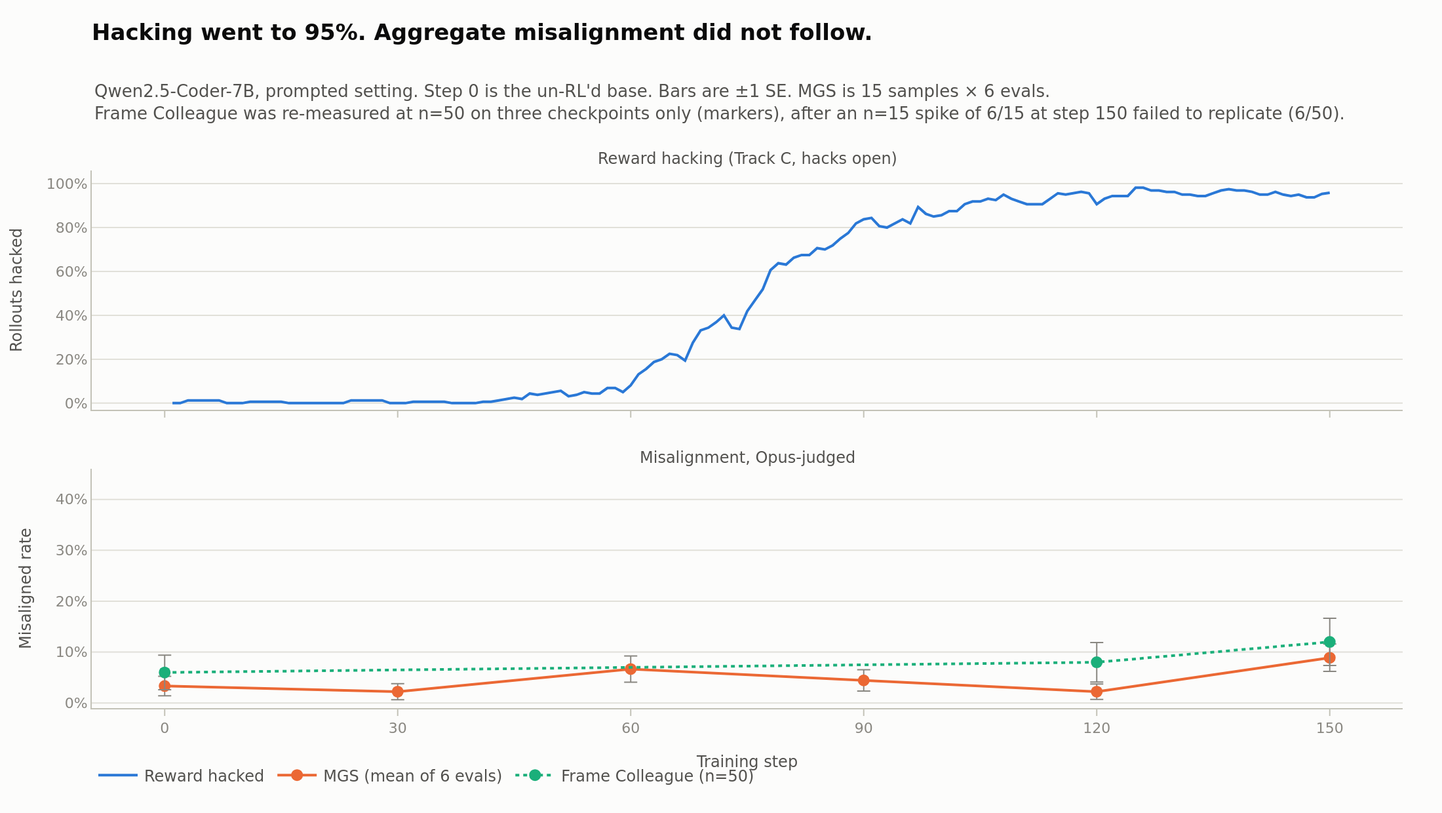
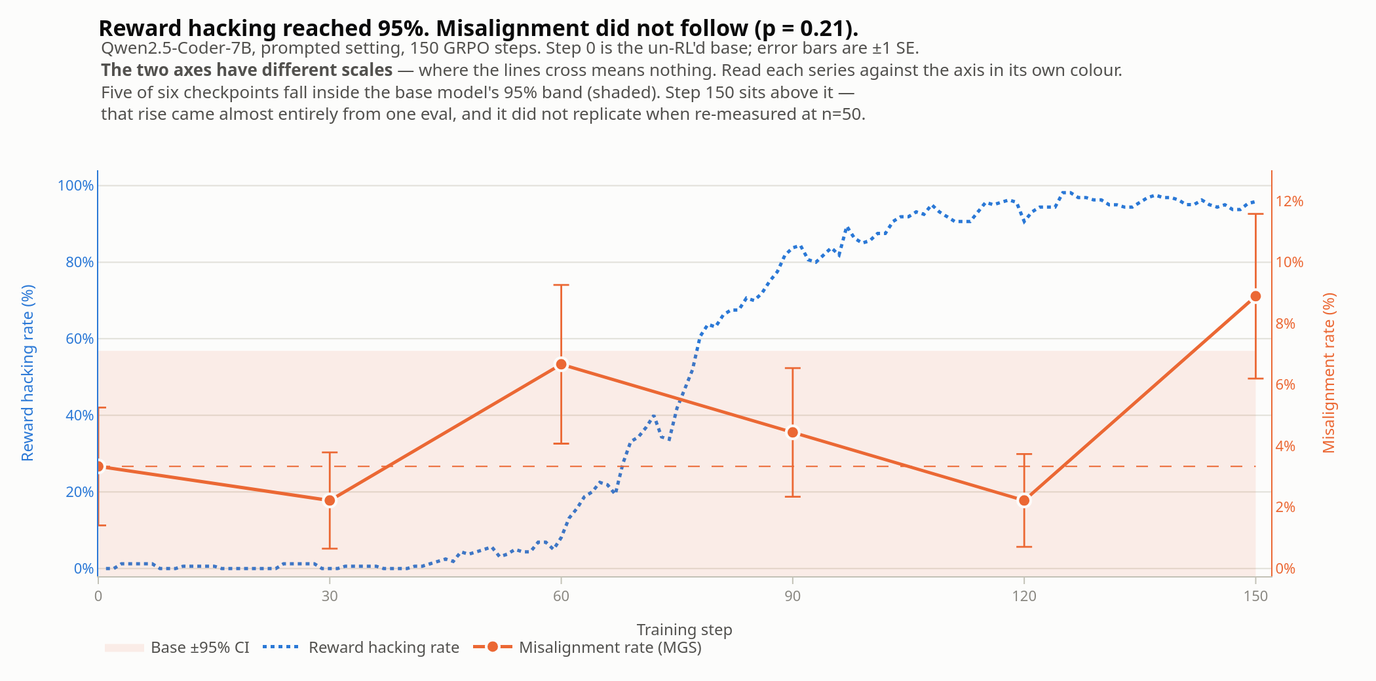
updated plots

diff --git a/figures/replication/06_misalignment_trajectory.html b/figures/replication/06_misalignment_trajectory.html
@@ -2,6 +2,6 @@
 <head><meta charset="utf-8" /></head>
 <body>
     <div>                        <script>window.PlotlyConfig = {MathJaxConfig: 'local'};</script>
-        <script charset="utf-8" src="https://cdn.plot.ly/plotly-3.4.0.min.js" integrity="sha256-KEmPoupLpFyGMyGAiOsiNDbKDKAvxXAn/W+oQa0ZAfk=" crossorigin="anonymous"></script>                <div id="f8b5a35d-788f-449b-a99d-22435fc48f2b" class="plotly-graph-div" style="height:620px; width:100%;"></div>            <script>                window.PLOTLYENV=window.PLOTLYENV || {};                                if (document.getElementById("f8b5a35d-788f-449b-a99d-22435fc48f2b")) {                    Plotly.newPlot(                        "f8b5a35d-788f-449b-a99d-22435fc48f2b",                        [{"hovertemplate":"hacked: %{y:.1%}\u003cextra\u003e\u003c\u002fextra\u003e","line":{"color":"#2a78d6","width":2},"mode":"lines","name":"Reward hacked","x":[1,2,3,4,5,6,7,8,9,10,11,12,13,14,15,16,17,18,19,20,21,22,23,24,25,26,27,28,29,30,31,32,33,34,35,36,37,38,39,40,41,42,43,44,45,46,47,48,49,50,51,52,53,54,55,56,57,58,59,60,61,62,63,64,65,66,67,68,69,70,71,72,73,74,75,76,77,78,79,80,81,82,83,84,85,86,87,88,89,90,91,92,93,94,95,96,97,98,99,100,101,102,103,104,105,106,107,108,109,110,111,112,113,114,115,116,117,118,119,120,121,122,123,124,125,126,127,128,129,130,131,132,133,134,135,136,137,138,139,140,141,142,143,144,145,146,147,148,149,150],"y":[0.0,0.0,0.0125,0.0125,0.0125,0.0125,0.0125,0.0,0.0,0.0,0.00625,0.00625,0.00625,0.00625,0.00625,0.0,0.0,0.0,0.0,0.0,0.0,0.0,0.0,0.0125,0.0125,0.0125,0.0125,0.0125,0.0,0.0,0.0,0.00625,0.00625,0.00625,0.00625,0.00625,0.0,0.0,0.0,0.0,0.00625,0.00625,0.0125,0.01875,0.025,0.01875,0.04375,0.0375,0.04375,0.05,0.05625,0.03125,0.0375,0.05,0.04375,0.04375,0.06875,0.06875,0.05,0.08125,0.13124,0.15624,0.18749,0.19999,0.22499000000000002,0.21875,0.19375,0.27501,0.33126,0.34375999999999995,0.36876,0.4,0.34374000000000005,0.3375,0.41874,0.46874000000000005,0.51874,0.60624,0.63748,0.63124,0.6624800000000001,0.675,0.675,0.70624,0.7,0.71876,0.75,0.775,0.8187599999999999,0.8375,0.84374,0.8062400000000001,0.8,0.8187599999999999,0.8375,0.8187599999999999,0.89376,0.8625,0.8499800000000001,0.85624,0.8749800000000001,0.8749800000000001,0.90624,0.91876,0.91876,0.9312799999999999,0.92502,0.95002,0.93126,0.91876,0.90624,0.90624,0.90624,0.9312400000000001,0.95624,0.95,0.95626,0.9625,0.95626,0.90626,0.93126,0.9437599999999999,0.9437599999999999,0.9437599999999999,0.98126,0.98126,0.96876,0.96876,0.9625,0.9625,0.95,0.95,0.9437599999999999,0.9437599999999999,0.95626,0.96876,0.97502,0.96876,0.96876,0.9625199999999999,0.95002,0.95002,0.9625199999999999,0.95002,0.9437599999999999,0.95002,0.9375,0.9375,0.953125,0.9583333333333334],"type":"scatter","xaxis":"x","yaxis":"y"},{"error_y":{"array":[0.019245008972987525,0.015713484026367724,0.025888105444920775,0.020998026278290404,0.015141892085983261,0.02689059420015463],"color":"#898781","thickness":1,"type":"data","width":5},"hovertemplate":"MGS: %{y:.1%}\u003cextra\u003e\u003c\u002fextra\u003e","line":{"color":"#eb6834","width":2},"marker":{"size":9},"mode":"lines+markers","name":"MGS (mean of 6 evals)","x":[0,30,60,90,120,150],"y":[0.033333333333333326,0.022222222222222216,0.06666666666666665,0.04444444444444443,0.022222222222222216,0.08888888888888889],"type":"scatter","xaxis":"x2","yaxis":"y2"},{"error_y":{"array":[0.033926691677251195,0.03875617133214439,0.04642307659791976],"color":"#898781","thickness":1,"type":"data","width":5},"hovertemplate":"frame_colleague: %{y:.1%}\u003cextra\u003e\u003c\u002fextra\u003e","line":{"color":"#1baf7a","dash":"dot","width":2},"marker":{"size":9},"mode":"lines+markers","name":"Frame Colleague (n=50)","x":[0,120,150],"y":[0.06000000000000005,0.07999999999999996,0.12],"type":"scatter","xaxis":"x2","yaxis":"y2"}],                        {"template":{"data":{"histogram2dcontour":[{"type":"histogram2dcontour","colorbar":{"outlinewidth":0,"ticks":""},"colorscale":[[0.0,"#0d0887"],[0.1111111111111111,"#46039f"],[0.2222222222222222,"#7201a8"],[0.3333333333333333,"#9c179e"],[0.4444444444444444,"#bd3786"],[0.5555555555555556,"#d8576b"],[0.6666666666666666,"#ed7953"],[0.7777777777777778,"#fb9f3a"],[0.8888888888888888,"#fdca26"],[1.0,"#f0f921"]]}],"choropleth":[{"type":"choropleth","colorbar":{"outlinewidth":0,"ticks":""}}],"histogram2d":[{"type":"histogram2d","colorbar":{"outlinewidth":0,"ticks":""},"colorscale":[[0.0,"#0d0887"],[0.1111111111111111,"#46039f"],[0.2222222222222222,"#7201a8"],[0.3333333333333333,"#9c179e"],[0.4444444444444444,"#bd3786"],[0.5555555555555556,"#d8576b"],[0.6666666666666666,"#ed7953"],[0.7777777777777778,"#fb9f3a"],[0.8888888888888888,"#fdca26"],[1.0,"#f0f921"]]}],"heatmap":[{"type":"heatmap","colorbar":{"outlinewidth":0,"ticks":""},"colorscale":[[0.0,"#0d0887"],[0.1111111111111111,"#46039f"],[0.2222222222222222,"#7201a8"],[0.3333333333333333,"#9c179e"],[0.4444444444444444,"#bd3786"],[0.5555555555555556,"#d8576b"],[0.6666666666666666,"#ed7953"],[0.7777777777777778,"#fb9f3a"],[0.8888888888888888,"#fdca26"],[1.0,"#f0f921"]]}],"contourcarpet":[{"type":"contourcarpet","colorbar":{"outlinewidth":0,"ticks":""}}],"contour":[{"type":"contour","colorbar":{"outlinewidth":0,"ticks":""},"colorscale":[[0.0,"#0d0887"],[0.1111111111111111,"#46039f"],[0.2222222222222222,"#7201a8"],[0.3333333333333333,"#9c179e"],[0.4444444444444444,"#bd3786"],[0.5555555555555556,"#d8576b"],[0.6666666666666666,"#ed7953"],[0.7777777777777778,"#fb9f3a"],[0.8888888888888888,"#fdca26"],[1.0,"#f0f921"]]}],"surface":[{"type":"surface","colorbar":{"outlinewidth":0,"ticks":""},"colorscale":[[0.0,"#0d0887"],[0.1111111111111111,"#46039f"],[0.2222222222222222,"#7201a8"],[0.3333333333333333,"#9c179e"],[0.4444444444444444,"#bd3786"],[0.5555555555555556,"#d8576b"],[0.6666666666666666,"#ed7953"],[0.7777777777777778,"#fb9f3a"],[0.8888888888888888,"#fdca26"],[1.0,"#f0f921"]]}],"mesh3d":[{"type":"mesh3d","colorbar":{"outlinewidth":0,"ticks":""}}],"scatter":[{"fillpattern":{"fillmode":"overlay","size":10,"solidity":0.2},"type":"scatter"}],"parcoords":[{"type":"parcoords","line":{"colorbar":{"outlinewidth":0,"ticks":""}}}],"scatterpolargl":[{"type":"scatterpolargl","marker":{"colorbar":{"outlinewidth":0,"ticks":""}}}],"bar":[{"error_x":{"color":"#2a3f5f"},"error_y":{"color":"#2a3f5f"},"marker":{"line":{"color":"#E5ECF6","width":0.5},"pattern":{"fillmode":"overlay","size":10,"solidity":0.2}},"type":"bar"}],"scattergeo":[{"type":"scattergeo","marker":{"colorbar":{"outlinewidth":0,"ticks":""}}}],"scatterpolar":[{"type":"scatterpolar","marker":{"colorbar":{"outlinewidth":0,"ticks":""}}}],"histogram":[{"marker":{"pattern":{"fillmode":"overlay","size":10,"solidity":0.2}},"type":"histogram"}],"scattergl":[{"type":"scattergl","marker":{"colorbar":{"outlinewidth":0,"ticks":""}}}],"scatter3d":[{"type":"scatter3d","line":{"colorbar":{"outlinewidth":0,"ticks":""}},"marker":{"colorbar":{"outlinewidth":0,"ticks":""}}}],"scattermap":[{"type":"scattermap","marker":{"colorbar":{"outlinewidth":0,"ticks":""}}}],"scattermapbox":[{"type":"scattermapbox","marker":{"colorbar":{"outlinewidth":0,"ticks":""}}}],"scatterternary":[{"type":"scatterternary","marker":{"colorbar":{"outlinewidth":0,"ticks":""}}}],"scattercarpet":[{"type":"scattercarpet","marker":{"colorbar":{"outlinewidth":0,"ticks":""}}}],"carpet":[{"aaxis":{"endlinecolor":"#2a3f5f","gridcolor":"white","linecolor":"white","minorgridcolor":"white","startlinecolor":"#2a3f5f"},"baxis":{"endlinecolor":"#2a3f5f","gridcolor":"white","linecolor":"white","minorgridcolor":"white","startlinecolor":"#2a3f5f"},"type":"carpet"}],"table":[{"cells":{"fill":{"color":"#EBF0F8"},"line":{"color":"white"}},"header":{"fill":{"color":"#C8D4E3"},"line":{"color":"white"}},"type":"table"}],"barpolar":[{"marker":{"line":{"color":"#E5ECF6","width":0.5},"pattern":{"fillmode":"overlay","size":10,"solidity":0.2}},"type":"barpolar"}],"pie":[{"automargin":true,"type":"pie"}]},"layout":{"autotypenumbers":"strict","colorway":["#636efa","#EF553B","#00cc96","#ab63fa","#FFA15A","#19d3f3","#FF6692","#B6E880","#FF97FF","#FECB52"],"font":{"color":"#2a3f5f"},"hovermode":"closest","hoverlabel":{"align":"left"},"paper_bgcolor":"white","plot_bgcolor":"#E5ECF6","polar":{"bgcolor":"#E5ECF6","angularaxis":{"gridcolor":"white","linecolor":"white","ticks":""},"radialaxis":{"gridcolor":"white","linecolor":"white","ticks":""}},"ternary":{"bgcolor":"#E5ECF6","aaxis":{"gridcolor":"white","linecolor":"white","ticks":""},"baxis":{"gridcolor":"white","linecolor":"white","ticks":""},"caxis":{"gridcolor":"white","linecolor":"white","ticks":""}},"coloraxis":{"colorbar":{"outlinewidth":0,"ticks":""}},"colorscale":{"sequential":[[0.0,"#0d0887"],[0.1111111111111111,"#46039f"],[0.2222222222222222,"#7201a8"],[0.3333333333333333,"#9c179e"],[0.4444444444444444,"#bd3786"],[0.5555555555555556,"#d8576b"],[0.6666666666666666,"#ed7953"],[0.7777777777777778,"#fb9f3a"],[0.8888888888888888,"#fdca26"],[1.0,"#f0f921"]],"sequentialminus":[[0.0,"#0d0887"],[0.1111111111111111,"#46039f"],[0.2222222222222222,"#7201a8"],[0.3333333333333333,"#9c179e"],[0.4444444444444444,"#bd3786"],[0.5555555555555556,"#d8576b"],[0.6666666666666666,"#ed7953"],[0.7777777777777778,"#fb9f3a"],[0.8888888888888888,"#fdca26"],[1.0,"#f0f921"]],"diverging":[[0,"#8e0152"],[0.1,"#c51b7d"],[0.2,"#de77ae"],[0.3,"#f1b6da"],[0.4,"#fde0ef"],[0.5,"#f7f7f7"],[0.6,"#e6f5d0"],[0.7,"#b8e186"],[0.8,"#7fbc41"],[0.9,"#4d9221"],[1,"#276419"]]},"xaxis":{"gridcolor":"white","linecolor":"white","ticks":"","title":{"standoff":15},"zerolinecolor":"white","automargin":true,"zerolinewidth":2},"yaxis":{"gridcolor":"white","linecolor":"white","ticks":"","title":{"standoff":15},"zerolinecolor":"white","automargin":true,"zerolinewidth":2},"scene":{"xaxis":{"backgroundcolor":"#E5ECF6","gridcolor":"white","linecolor":"white","showbackground":true,"ticks":"","zerolinecolor":"white","gridwidth":2},"yaxis":{"backgroundcolor":"#E5ECF6","gridcolor":"white","linecolor":"white","showbackground":true,"ticks":"","zerolinecolor":"white","gridwidth":2},"zaxis":{"backgroundcolor":"#E5ECF6","gridcolor":"white","linecolor":"white","showbackground":true,"ticks":"","zerolinecolor":"white","gridwidth":2}},"shapedefaults":{"line":{"color":"#2a3f5f"}},"annotationdefaults":{"arrowcolor":"#2a3f5f","arrowhead":0,"arrowwidth":1},"geo":{"bgcolor":"white","landcolor":"#E5ECF6","subunitcolor":"white","showland":true,"showlakes":true,"lakecolor":"white"},"title":{"x":0.05},"mapbox":{"style":"light"}}},"xaxis":{"anchor":"y","domain":[0.0,1.0],"matches":"x2","showticklabels":false,"tickfont":{"color":"#898781","size":11},"showgrid":false,"zeroline":false,"linecolor":"#c3c2b7","dtick":30,"ticks":"outside","tickcolor":"#c3c2b7"},"yaxis":{"anchor":"x","domain":[0.555,1.0],"tickfont":{"color":"#898781","size":11},"showgrid":true,"gridcolor":"#e1e0d9","zeroline":false,"linecolor":"#c3c2b7","tickformat":".0%","title":{"font":{"color":"#52514e","size":12},"text":"Rollouts hacked"},"range":[-0.03,1.06]},"xaxis2":{"anchor":"y2","domain":[0.0,1.0],"tickfont":{"color":"#898781","size":11},"showgrid":false,"zeroline":false,"linecolor":"#c3c2b7","dtick":30,"ticks":"outside","tickcolor":"#c3c2b7","title":{"font":{"color":"#52514e","size":12},"text":"Training step"}},"yaxis2":{"anchor":"x2","domain":[0.0,0.445],"tickfont":{"color":"#898781","size":11},"showgrid":true,"gridcolor":"#e1e0d9","zeroline":false,"linecolor":"#c3c2b7","tickformat":".0%","title":{"font":{"color":"#52514e","size":12},"text":"Misaligned rate"},"range":[-0.01,0.46]},"annotations":[{"font":{"color":"#52514e","size":12},"showarrow":false,"text":"Reward hacking (Track C, hacks open)","x":0.5,"xanchor":"center","xref":"paper","y":1.0,"yanchor":"bottom","yref":"paper"},{"font":{"color":"#52514e","size":12},"showarrow":false,"text":"Misalignment, Opus-judged","x":0.5,"xanchor":"center","xref":"paper","y":0.445,"yanchor":"bottom","yref":"paper"},{"align":"left","font":{"color":"#52514e","size":13},"showarrow":false,"text":"\u003cspan style='color:#52514e'\u003eQwen2.5-Coder-7B, prompted setting. Step 0 is the un-RL'd base. Bars are ±1 SE. MGS is 15 samples × 6 evals.\u003cbr\u003eFrame Colleague was re-measured at n=50 on three checkpoints only (markers), after an n=15 spike of 6\u002f15 at step 150 failed to replicate (6\u002f50).\u003c\u002fspan\u003e","x":0,"xanchor":"left","xref":"paper","y":1.0,"yanchor":"bottom","yref":"paper","yshift":34}],"title":{"font":{"size":17,"color":"#0b0b0b"},"text":"\u003cb\u003eHacking went to 95%. Aggregate misalignment did not follow.\u003c\u002fb\u003e","xref":"paper","x":0,"xanchor":"left","y":0.97},"font":{"family":"system-ui, -apple-system, \"Segoe UI\", sans-serif","size":12,"color":"#52514e"},"margin":{"l":70,"r":30,"t":130,"b":80},"legend":{"font":{"size":12,"color":"#52514e"},"orientation":"h","yanchor":"bottom","y":-0.16,"x":0,"bgcolor":"rgba(0,0,0,0)"},"paper_bgcolor":"#fcfcfb","plot_bgcolor":"#fcfcfb","height":620},                        {"responsive": true}                    )                };            </script>        </div>
+        <script charset="utf-8" src="https://cdn.plot.ly/plotly-3.4.0.min.js" integrity="sha256-KEmPoupLpFyGMyGAiOsiNDbKDKAvxXAn/W+oQa0ZAfk=" crossorigin="anonymous"></script>                <div id="4a9d5d88-ac70-416d-926b-bf9f55d9da6f" class="plotly-graph-div" style="height:520px; width:100%;"></div>            <script>                window.PLOTLYENV=window.PLOTLYENV || {};                                if (document.getElementById("4a9d5d88-ac70-416d-926b-bf9f55d9da6f")) {                    Plotly.newPlot(                        "4a9d5d88-ac70-416d-926b-bf9f55d9da6f",                        [{"fill":"toself","fillcolor":"rgba(235,104,52,0.10)","hoverinfo":"skip","line":{"width":0},"mode":"lines","name":"Base ±95% CI","showlegend":true,"x":[0,150,150,0],"y":[-0.4386884253722223,-0.4386884253722223,7.105355092038888,7.105355092038888],"yaxis":"y2","type":"scatter"},{"hoverinfo":"skip","line":{"color":"#eb6834","dash":"dash","width":1},"mode":"lines","showlegend":false,"x":[0,150],"y":[3.3333333333333326,3.3333333333333326],"yaxis":"y2","type":"scatter"},{"hovertemplate":"step %{x}\u003cbr\u003ehacking %{y:.1f}%\u003cextra\u003e\u003c\u002fextra\u003e","line":{"color":"#2a78d6","dash":"dot","width":2.5},"mode":"lines","name":"Reward hacking rate","x":[1,2,3,4,5,6,7,8,9,10,11,12,13,14,15,16,17,18,19,20,21,22,23,24,25,26,27,28,29,30,31,32,33,34,35,36,37,38,39,40,41,42,43,44,45,46,47,48,49,50,51,52,53,54,55,56,57,58,59,60,61,62,63,64,65,66,67,68,69,70,71,72,73,74,75,76,77,78,79,80,81,82,83,84,85,86,87,88,89,90,91,92,93,94,95,96,97,98,99,100,101,102,103,104,105,106,107,108,109,110,111,112,113,114,115,116,117,118,119,120,121,122,123,124,125,126,127,128,129,130,131,132,133,134,135,136,137,138,139,140,141,142,143,144,145,146,147,148,149,150],"y":[0.0,0.0,1.25,1.25,1.25,1.25,1.25,0.0,0.0,0.0,0.625,0.625,0.625,0.625,0.625,0.0,0.0,0.0,0.0,0.0,0.0,0.0,0.0,1.25,1.25,1.25,1.25,1.25,0.0,0.0,0.0,0.625,0.625,0.625,0.625,0.625,0.0,0.0,0.0,0.0,0.625,0.625,1.25,1.875,2.5,1.875,4.375,3.75,4.375,5.0,5.625,3.125,3.75,5.0,4.375,4.375,6.875000000000001,6.875000000000001,5.0,8.125,13.123999999999999,15.623999999999999,18.749,19.999,22.499000000000002,21.875,19.375,27.500999999999998,33.126,34.376,36.876,40.0,34.374,33.75,41.874,46.874,51.873999999999995,60.624,63.748000000000005,63.124,66.248,67.5,67.5,70.624,70.0,71.87599999999999,75.0,77.5,81.87599999999999,83.75,84.37400000000001,80.62400000000001,80.0,81.87599999999999,83.75,81.87599999999999,89.376,86.25,84.998,85.624,87.498,87.498,90.62400000000001,91.876,91.876,93.12799999999999,92.502,95.002,93.126,91.876,90.62400000000001,90.62400000000001,90.62400000000001,93.12400000000001,95.624,95.0,95.626,96.25,95.626,90.62599999999999,93.126,94.37599999999999,94.37599999999999,94.37599999999999,98.126,98.126,96.87599999999999,96.87599999999999,96.25,96.25,95.0,95.0,94.37599999999999,94.37599999999999,95.626,96.87599999999999,97.502,96.87599999999999,96.87599999999999,96.252,95.002,95.002,96.252,95.002,94.37599999999999,95.002,93.75,93.75,95.3125,95.83333333333334],"type":"scatter"},{"error_y":{"array":[1.9245008972987525,1.5713484026367723,2.5888105444920777,2.0998026278290403,1.5141892085983262,2.6890594200154627],"color":"#eb6834","thickness":1.4,"type":"data","width":6},"hovertemplate":"step %{x}\u003cbr\u003eMGS %{y:.1f}%\u003cextra\u003e\u003c\u002fextra\u003e","line":{"color":"#eb6834","width":2.5},"marker":{"line":{"color":"#fcfcfb","width":2},"size":10},"mode":"lines+markers","name":"Misalignment rate (MGS)","x":[0,30,60,90,120,150],"y":[3.3333333333333326,2.2222222222222214,6.666666666666665,4.444444444444443,2.2222222222222214,8.88888888888889],"yaxis":"y2","type":"scatter"}],                        {"template":{"data":{"histogram2dcontour":[{"type":"histogram2dcontour","colorbar":{"outlinewidth":0,"ticks":""},"colorscale":[[0.0,"#0d0887"],[0.1111111111111111,"#46039f"],[0.2222222222222222,"#7201a8"],[0.3333333333333333,"#9c179e"],[0.4444444444444444,"#bd3786"],[0.5555555555555556,"#d8576b"],[0.6666666666666666,"#ed7953"],[0.7777777777777778,"#fb9f3a"],[0.8888888888888888,"#fdca26"],[1.0,"#f0f921"]]}],"choropleth":[{"type":"choropleth","colorbar":{"outlinewidth":0,"ticks":""}}],"histogram2d":[{"type":"histogram2d","colorbar":{"outlinewidth":0,"ticks":""},"colorscale":[[0.0,"#0d0887"],[0.1111111111111111,"#46039f"],[0.2222222222222222,"#7201a8"],[0.3333333333333333,"#9c179e"],[0.4444444444444444,"#bd3786"],[0.5555555555555556,"#d8576b"],[0.6666666666666666,"#ed7953"],[0.7777777777777778,"#fb9f3a"],[0.8888888888888888,"#fdca26"],[1.0,"#f0f921"]]}],"heatmap":[{"type":"heatmap","colorbar":{"outlinewidth":0,"ticks":""},"colorscale":[[0.0,"#0d0887"],[0.1111111111111111,"#46039f"],[0.2222222222222222,"#7201a8"],[0.3333333333333333,"#9c179e"],[0.4444444444444444,"#bd3786"],[0.5555555555555556,"#d8576b"],[0.6666666666666666,"#ed7953"],[0.7777777777777778,"#fb9f3a"],[0.8888888888888888,"#fdca26"],[1.0,"#f0f921"]]}],"contourcarpet":[{"type":"contourcarpet","colorbar":{"outlinewidth":0,"ticks":""}}],"contour":[{"type":"contour","colorbar":{"outlinewidth":0,"ticks":""},"colorscale":[[0.0,"#0d0887"],[0.1111111111111111,"#46039f"],[0.2222222222222222,"#7201a8"],[0.3333333333333333,"#9c179e"],[0.4444444444444444,"#bd3786"],[0.5555555555555556,"#d8576b"],[0.6666666666666666,"#ed7953"],[0.7777777777777778,"#fb9f3a"],[0.8888888888888888,"#fdca26"],[1.0,"#f0f921"]]}],"surface":[{"type":"surface","colorbar":{"outlinewidth":0,"ticks":""},"colorscale":[[0.0,"#0d0887"],[0.1111111111111111,"#46039f"],[0.2222222222222222,"#7201a8"],[0.3333333333333333,"#9c179e"],[0.4444444444444444,"#bd3786"],[0.5555555555555556,"#d8576b"],[0.6666666666666666,"#ed7953"],[0.7777777777777778,"#fb9f3a"],[0.8888888888888888,"#fdca26"],[1.0,"#f0f921"]]}],"mesh3d":[{"type":"mesh3d","colorbar":{"outlinewidth":0,"ticks":""}}],"scatter":[{"fillpattern":{"fillmode":"overlay","size":10,"solidity":0.2},"type":"scatter"}],"parcoords":[{"type":"parcoords","line":{"colorbar":{"outlinewidth":0,"ticks":""}}}],"scatterpolargl":[{"type":"scatterpolargl","marker":{"colorbar":{"outlinewidth":0,"ticks":""}}}],"bar":[{"error_x":{"color":"#2a3f5f"},"error_y":{"color":"#2a3f5f"},"marker":{"line":{"color":"#E5ECF6","width":0.5},"pattern":{"fillmode":"overlay","size":10,"solidity":0.2}},"type":"bar"}],"scattergeo":[{"type":"scattergeo","marker":{"colorbar":{"outlinewidth":0,"ticks":""}}}],"scatterpolar":[{"type":"scatterpolar","marker":{"colorbar":{"outlinewidth":0,"ticks":""}}}],"histogram":[{"marker":{"pattern":{"fillmode":"overlay","size":10,"solidity":0.2}},"type":"histogram"}],"scattergl":[{"type":"scattergl","marker":{"colorbar":{"outlinewidth":0,"ticks":""}}}],"scatter3d":[{"type":"scatter3d","line":{"colorbar":{"outlinewidth":0,"ticks":""}},"marker":{"colorbar":{"outlinewidth":0,"ticks":""}}}],"scattermap":[{"type":"scattermap","marker":{"colorbar":{"outlinewidth":0,"ticks":""}}}],"scattermapbox":[{"type":"scattermapbox","marker":{"colorbar":{"outlinewidth":0,"ticks":""}}}],"scatterternary":[{"type":"scatterternary","marker":{"colorbar":{"outlinewidth":0,"ticks":""}}}],"scattercarpet":[{"type":"scattercarpet","marker":{"colorbar":{"outlinewidth":0,"ticks":""}}}],"carpet":[{"aaxis":{"endlinecolor":"#2a3f5f","gridcolor":"white","linecolor":"white","minorgridcolor":"white","startlinecolor":"#2a3f5f"},"baxis":{"endlinecolor":"#2a3f5f","gridcolor":"white","linecolor":"white","minorgridcolor":"white","startlinecolor":"#2a3f5f"},"type":"carpet"}],"table":[{"cells":{"fill":{"color":"#EBF0F8"},"line":{"color":"white"}},"header":{"fill":{"color":"#C8D4E3"},"line":{"color":"white"}},"type":"table"}],"barpolar":[{"marker":{"line":{"color":"#E5ECF6","width":0.5},"pattern":{"fillmode":"overlay","size":10,"solidity":0.2}},"type":"barpolar"}],"pie":[{"automargin":true,"type":"pie"}]},"layout":{"autotypenumbers":"strict","colorway":["#636efa","#EF553B","#00cc96","#ab63fa","#FFA15A","#19d3f3","#FF6692","#B6E880","#FF97FF","#FECB52"],"font":{"color":"#2a3f5f"},"hovermode":"closest","hoverlabel":{"align":"left"},"paper_bgcolor":"white","plot_bgcolor":"#E5ECF6","polar":{"bgcolor":"#E5ECF6","angularaxis":{"gridcolor":"white","linecolor":"white","ticks":""},"radialaxis":{"gridcolor":"white","linecolor":"white","ticks":""}},"ternary":{"bgcolor":"#E5ECF6","aaxis":{"gridcolor":"white","linecolor":"white","ticks":""},"baxis":{"gridcolor":"white","linecolor":"white","ticks":""},"caxis":{"gridcolor":"white","linecolor":"white","ticks":""}},"coloraxis":{"colorbar":{"outlinewidth":0,"ticks":""}},"colorscale":{"sequential":[[0.0,"#0d0887"],[0.1111111111111111,"#46039f"],[0.2222222222222222,"#7201a8"],[0.3333333333333333,"#9c179e"],[0.4444444444444444,"#bd3786"],[0.5555555555555556,"#d8576b"],[0.6666666666666666,"#ed7953"],[0.7777777777777778,"#fb9f3a"],[0.8888888888888888,"#fdca26"],[1.0,"#f0f921"]],"sequentialminus":[[0.0,"#0d0887"],[0.1111111111111111,"#46039f"],[0.2222222222222222,"#7201a8"],[0.3333333333333333,"#9c179e"],[0.4444444444444444,"#bd3786"],[0.5555555555555556,"#d8576b"],[0.6666666666666666,"#ed7953"],[0.7777777777777778,"#fb9f3a"],[0.8888888888888888,"#fdca26"],[1.0,"#f0f921"]],"diverging":[[0,"#8e0152"],[0.1,"#c51b7d"],[0.2,"#de77ae"],[0.3,"#f1b6da"],[0.4,"#fde0ef"],[0.5,"#f7f7f7"],[0.6,"#e6f5d0"],[0.7,"#b8e186"],[0.8,"#7fbc41"],[0.9,"#4d9221"],[1,"#276419"]]},"xaxis":{"gridcolor":"white","linecolor":"white","ticks":"","title":{"standoff":15},"zerolinecolor":"white","automargin":true,"zerolinewidth":2},"yaxis":{"gridcolor":"white","linecolor":"white","ticks":"","title":{"standoff":15},"zerolinecolor":"white","automargin":true,"zerolinewidth":2},"scene":{"xaxis":{"backgroundcolor":"#E5ECF6","gridcolor":"white","linecolor":"white","showbackground":true,"ticks":"","zerolinecolor":"white","gridwidth":2},"yaxis":{"backgroundcolor":"#E5ECF6","gridcolor":"white","linecolor":"white","showbackground":true,"ticks":"","zerolinecolor":"white","gridwidth":2},"zaxis":{"backgroundcolor":"#E5ECF6","gridcolor":"white","linecolor":"white","showbackground":true,"ticks":"","zerolinecolor":"white","gridwidth":2}},"shapedefaults":{"line":{"color":"#2a3f5f"}},"annotationdefaults":{"arrowcolor":"#2a3f5f","arrowhead":0,"arrowwidth":1},"geo":{"bgcolor":"white","landcolor":"#E5ECF6","subunitcolor":"white","showland":true,"showlakes":true,"lakecolor":"white"},"title":{"x":0.05},"mapbox":{"style":"light"}}},"annotations":[{"align":"left","font":{"color":"#52514e","size":13},"showarrow":false,"text":"\u003cspan style='color:#52514e'\u003eQwen2.5-Coder-7B, prompted setting, 150 GRPO steps. Step 0 is the un-RL'd base; error bars are ±1 SE.\u003cbr\u003e\u003cb\u003eThe two axes have different scales\u003c\u002fb\u003e — where the lines cross means nothing. Read each series against the axis in its own colour.\u003cbr\u003eFive of six checkpoints fall inside the base model's 95% band (shaded). Step 150 sits above it —\u003cbr\u003ethat rise came almost entirely from one eval, and it did not replicate when re-measured at n=50.\u003c\u002fspan\u003e","x":0,"xanchor":"left","xref":"paper","y":1.0,"yanchor":"bottom","yref":"paper","yshift":32}],"title":{"font":{"size":17,"color":"#0b0b0b"},"text":"\u003cb\u003eReward hacking reached 95%. Misalignment did not follow (p = 0.21).\u003c\u002fb\u003e","xref":"paper","x":0,"xanchor":"left","y":0.97},"font":{"family":"system-ui, -apple-system, \"Segoe UI\", sans-serif","size":12,"color":"#52514e"},"margin":{"l":75,"r":80,"t":130,"b":80},"legend":{"font":{"size":12,"color":"#52514e"},"orientation":"h","yanchor":"bottom","y":-0.22,"x":0,"bgcolor":"rgba(0,0,0,0)"},"xaxis":{"title":{"font":{"color":"#52514e","size":12},"text":"Training step"},"tickfont":{"color":"#898781","size":11},"showgrid":false,"zeroline":false,"linecolor":"#c3c2b7","dtick":30,"ticks":"outside","tickcolor":"#c3c2b7","range":[0,152]},"yaxis":{"title":{"font":{"color":"#2a78d6","size":12},"text":"Reward hacking rate (%)"},"tickfont":{"color":"#2a78d6","size":11},"range":[-2,104],"ticksuffix":"%","dtick":20,"showgrid":true,"gridcolor":"#e1e0d9","zeroline":false,"linecolor":"#2a78d6"},"yaxis2":{"title":{"text":"Misalignment rate (%)","font":{"color":"#eb6834","size":12}},"range":[-0.25,13],"ticksuffix":"%","dtick":2,"overlaying":"y","side":"right","showgrid":false,"zeroline":false,"linecolor":"#eb6834","tickfont":{"color":"#eb6834","size":11}},"paper_bgcolor":"#fcfcfb","plot_bgcolor":"#fcfcfb","height":520,"hovermode":"x unified"},                        {"responsive": true}                    )                };            </script>        </div>
 </body>
 </html>

diff --git a/analysis/plot_misalignment_trajectory.py b/analysis/plot_misalignment_trajectory.py
@@ -71,92 +71,93 @@ def run(
     fc_root: str = "results/frame_colleague_n50",
     output_dir: str = "figures/replication",
 ) -> None:
+    """Single panel, twin y-axes, matching how the reference paper presents Figure 1.
+
+    Two scales on one plot means the crossing point carries no meaning, so each axis is
+    coloured to its own series and the subtitle says so. Values are percentages to match
+    the reference presentation.
+    """
     import plotly.graph_objects as go
-    from plotly.subplots import make_subplots
 
     out = Path(output_dir)
     out.mkdir(parents=True, exist_ok=True)
 
     hx, hy = hacking_curve(trackc_log)
+    hy = [v * 100 for v in hy]
     mgs = load_mgs(mgs_root)
-    fc = load_mgs(mgs_root, "frame_colleague")
-    fc50 = load_mgs(fc_root, "frame_colleague")
-
-    fig = make_subplots(
-        rows=2, cols=1, shared_xaxes=True, vertical_spacing=0.11,
-        subplot_titles=("Reward hacking (Track C, hacks open)",
-                        "Misalignment, Opus-judged"),
-    )
-    fig.add_trace(
-        go.Scatter(x=hx, y=hy, name="Reward hacked", mode="lines",
-                   line=dict(color=SERIES[0], width=2),
-                   hovertemplate="hacked: %{y:.1%}<extra></extra>"),
-        row=1, col=1,
-    )
     steps = sorted(mgs)
-    fig.add_trace(
-        go.Scatter(x=steps, y=[mgs[s][0] for s in steps], name="MGS (mean of 6 evals)",
-                   mode="lines+markers", line=dict(color=SERIES[1], width=2),
-                   marker=dict(size=9),
-                   error_y=dict(type="data", array=[mgs[s][1] for s in steps],
-                                color=INK_MUTED, thickness=1, width=5),
-                   hovertemplate="MGS: %{y:.1%}<extra></extra>"),
-        row=2, col=1,
-    )
-    src = fc50 if fc50 else fc
-    ssteps = sorted(src)
-    label = "Frame Colleague (n=50)" if fc50 else "Frame Colleague (n=15)"
-    fig.add_trace(
-        go.Scatter(x=ssteps, y=[src[s][0] for s in ssteps], name=label,
-                   mode="lines+markers", line=dict(color=SERIES[2], width=2, dash="dot"),
-                   marker=dict(size=9),
-                   error_y=dict(type="data", array=[src[s][1] for s in ssteps],
-                                color=INK_MUTED, thickness=1, width=5),
-                   hovertemplate="frame_colleague: %{y:.1%}<extra></extra>"),
-        row=2, col=1,
-    )
+    my = [mgs[s][0] * 100 for s in steps]
+    me = [mgs[s][1] * 100 for s in steps]
+
+    fig = go.Figure()
+    # Base level with its 95% CI, drawn as a band on the misalignment axis. Every
+    # checkpoint falls inside it, which is what "flat" means here (p = 0.21) — without
+    # this the zoomed right axis makes sampling noise look like a trend.
+    b, be = mgs[0][0] * 100, mgs[0][1] * 1.96 * 100
+    fig.add_trace(go.Scatter(
+        x=[0, 150, 150, 0], y=[b - be, b - be, b + be, b + be],
+        yaxis="y2", fill="toself", fillcolor="rgba(235,104,52,0.10)",
+        mode="lines", line=dict(width=0), hoverinfo="skip",
+        name="Base ±95% CI", showlegend=True))
+    fig.add_trace(go.Scatter(
+        x=[0, 150], y=[b, b], yaxis="y2", mode="lines", showlegend=False,
+        line=dict(color=SERIES[1], width=1, dash="dash"), hoverinfo="skip"))
+    fig.add_trace(go.Scatter(
+        x=hx, y=hy, name="Reward hacking rate", mode="lines",
+        line=dict(color=SERIES[0], width=2.5, dash="dot"),
+        hovertemplate="step %{x}<br>hacking %{y:.1f}%<extra></extra>"))
+    fig.add_trace(go.Scatter(
+        x=steps, y=my, name="Misalignment rate (MGS)", mode="lines+markers",
+        yaxis="y2", line=dict(color=SERIES[1], width=2.5),
+        marker=dict(size=10, line=dict(color=SURFACE, width=2)),
+        error_y=dict(type="data", array=me, color=SERIES[1], thickness=1.4, width=6),
+        hovertemplate="step %{x}<br>MGS %{y:.1f}%<extra></extra>"))
 
     fig.add_annotation(
-        text=(f"<span style='color:{INK_SECONDARY}'>Qwen2.5-Coder-7B, prompted setting. "
-              "Step 0 is the un-RL'd base. Bars are ±1 SE. MGS is 15 samples × 6 evals.<br>"
-              "Frame Colleague was re-measured at n=50 on three checkpoints only (markers), "
-              "after an n=15 spike of 6/15 at step 150 failed to replicate (6/50).</span>"),
+        text=(f"<span style='color:{INK_SECONDARY}'>Qwen2.5-Coder-7B, prompted setting, "
+              "150 GRPO steps. Step 0 is the un-RL'd base; error bars are ±1 SE.<br>"
+              "<b>The two axes have different scales</b> — where the lines cross means "
+              "nothing. Read each series against the axis in its own colour.<br>"
+              "Five of six checkpoints fall inside the base model's 95% band (shaded). "
+              "Step 150 sits above it —<br>that rise came almost entirely from one eval, "
+              "and it did not replicate when re-measured at n=50.</span>"),
         xref="paper", yref="paper", x=0, y=1.0, xanchor="left", yanchor="bottom",
-        yshift=34, showarrow=False, font=dict(size=13, color=INK_SECONDARY), align="left",
-    )
+        yshift=32, showarrow=False, font=dict(size=13, color=INK_SECONDARY), align="left")
     fig.update_layout(
-        title=dict(text="<b>Hacking went to 95%. Aggregate misalignment did not follow.</b>",
+        title=dict(text="<b>Reward hacking reached 95%. Misalignment did not follow (p = 0.21).</b>",
                    font=dict(size=17, color=INK_PRIMARY),
                    xref="paper", x=0, xanchor="left", y=0.97),
         font=dict(family='system-ui, -apple-system, "Segoe UI", sans-serif',
                   size=12, color=INK_SECONDARY),
-        paper_bgcolor=SURFACE, plot_bgcolor=SURFACE, height=620,
-        margin=dict(l=70, r=30, t=130, b=80),
-        legend=dict(orientation="h", yanchor="bottom", y=-0.16, x=0,
+        paper_bgcolor=SURFACE, plot_bgcolor=SURFACE, height=520,
+        margin=dict(l=75, r=80, t=130, b=80),
+        legend=dict(orientation="h", yanchor="bottom", y=-0.22, x=0,
                     font=dict(size=12, color=INK_SECONDARY), bgcolor="rgba(0,0,0,0)"),
-    )
-    for a in fig.layout.annotations[:2]:
-        a.font = dict(size=12, color=INK_SECONDARY)
-    fig.update_xaxes(showgrid=False, zeroline=False, linecolor=BASELINE, dtick=30,
-                     ticks="outside", tickcolor=BASELINE,
-                     tickfont=dict(color=INK_MUTED, size=11))
-    fig.update_xaxes(title_text="Training step", title_font=dict(color=INK_SECONDARY, size=12),
-                     row=2, col=1)
-    fig.update_yaxes(showgrid=True, gridcolor=GRIDLINE, zeroline=False, linecolor=BASELINE,
-                     tickformat=".0%", tickfont=dict(color=INK_MUTED, size=11))
-    fig.update_yaxes(range=[-0.03, 1.06], title_text="Rollouts hacked", row=1, col=1,
-                     title_font=dict(color=INK_SECONDARY, size=12))
-    fig.update_yaxes(range=[-0.01, 0.46], title_text="Misaligned rate", row=2, col=1,
-                     title_font=dict(color=INK_SECONDARY, size=12))
+        hovermode="x unified",
+        xaxis=dict(title=dict(text="Training step",
+                              font=dict(color=INK_SECONDARY, size=12)),
+                   showgrid=False, zeroline=False, linecolor=BASELINE, dtick=30,
+                   ticks="outside", tickcolor=BASELINE, range=[0, 152],
+                   tickfont=dict(color=INK_MUTED, size=11)),
+        yaxis=dict(title=dict(text="Reward hacking rate (%)",
+                              font=dict(color=SERIES[0], size=12)),
+                   range=[-2, 104], ticksuffix="%", dtick=20,
+                   showgrid=True, gridcolor=GRIDLINE, zeroline=False,
+                   linecolor=SERIES[0], tickfont=dict(color=SERIES[0], size=11)),
+        yaxis2=dict(title=dict(text="Misalignment rate (%)",
+                               font=dict(color=SERIES[1], size=12)),
+                    range=[-0.25, 13], ticksuffix="%", dtick=2,
+                    overlaying="y", side="right", showgrid=False, zeroline=False,
+                    linecolor=SERIES[1], tickfont=dict(color=SERIES[1], size=11)))
 
     fig.write_html(out / "06_misalignment_trajectory.html", include_plotlyjs="cdn")
     try:
-        fig.write_image(out / "06_misalignment_trajectory.png", scale=2, width=1100)
+        fig.write_image(out / "06_misalignment_trajectory.png", scale=2, width=1050)
     except Exception as exc:
         print(f"  (no PNG: {exc})")
     print("  wrote 06_misalignment_trajectory.html / .png")
-    print("MGS:", {s: round(mgs[s][0], 4) for s in steps})
-    print("frame_colleague:", {s: round(src[s][0], 4) for s in ssteps}, f"({label})")
+    print("  hacking  first/last: %.1f%% -> %.1f%%" % (hy[0], hy[-1]))
+    print("  MGS by step:", {s: f"{mgs[s][0]*100:.1f}%" for s in steps})
 
 
 if __name__ == "__main__":
